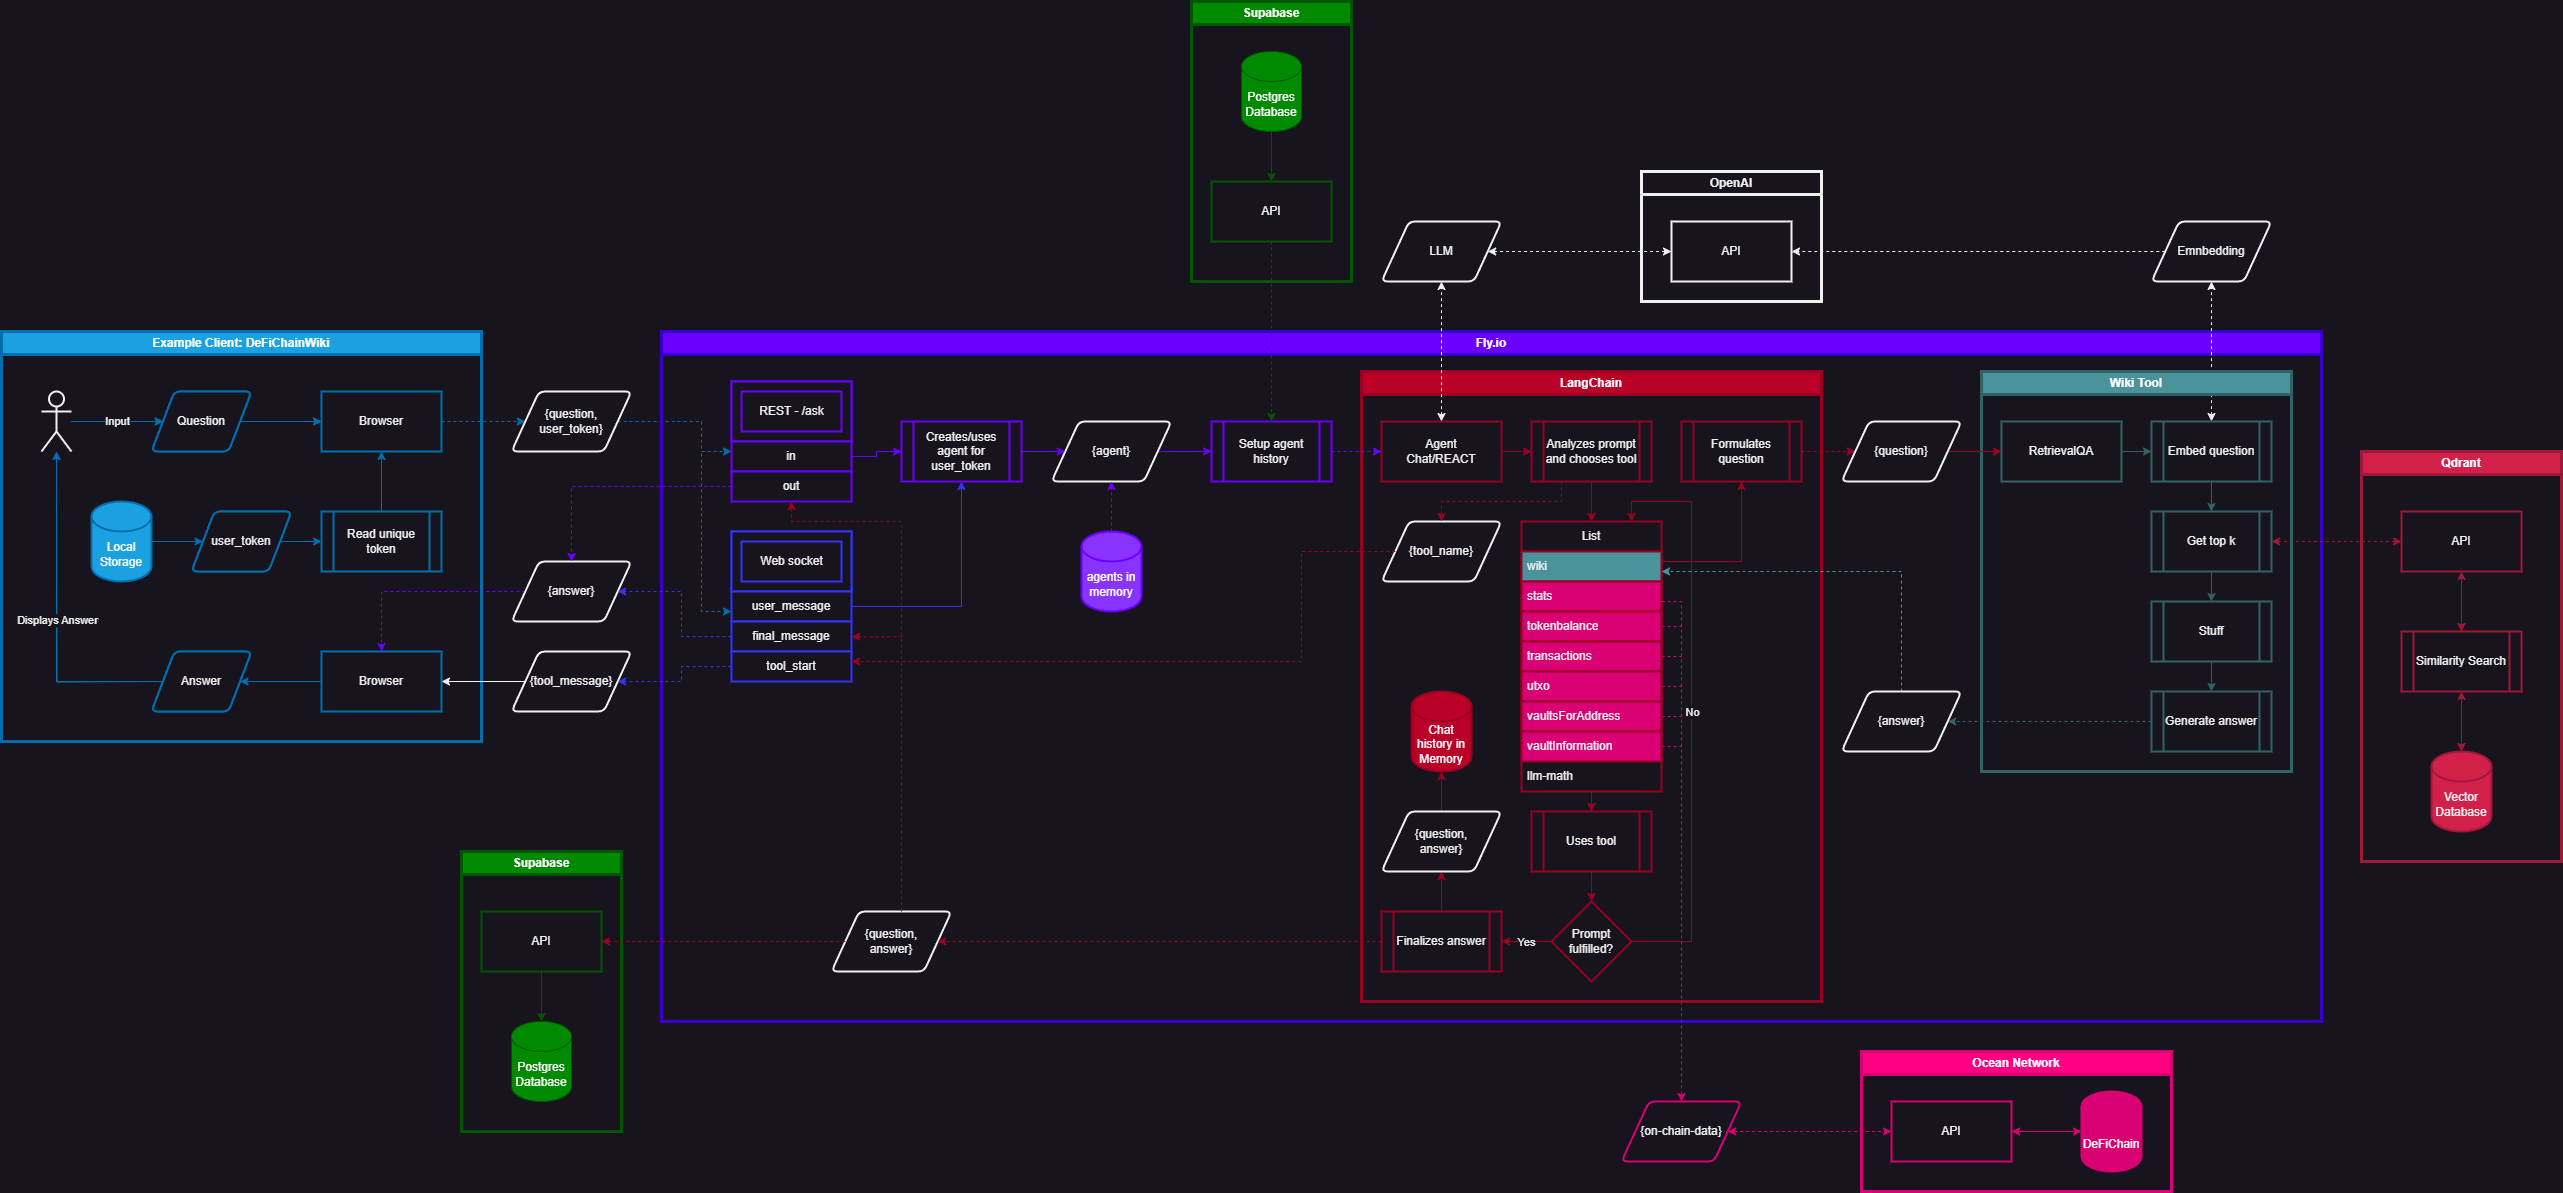
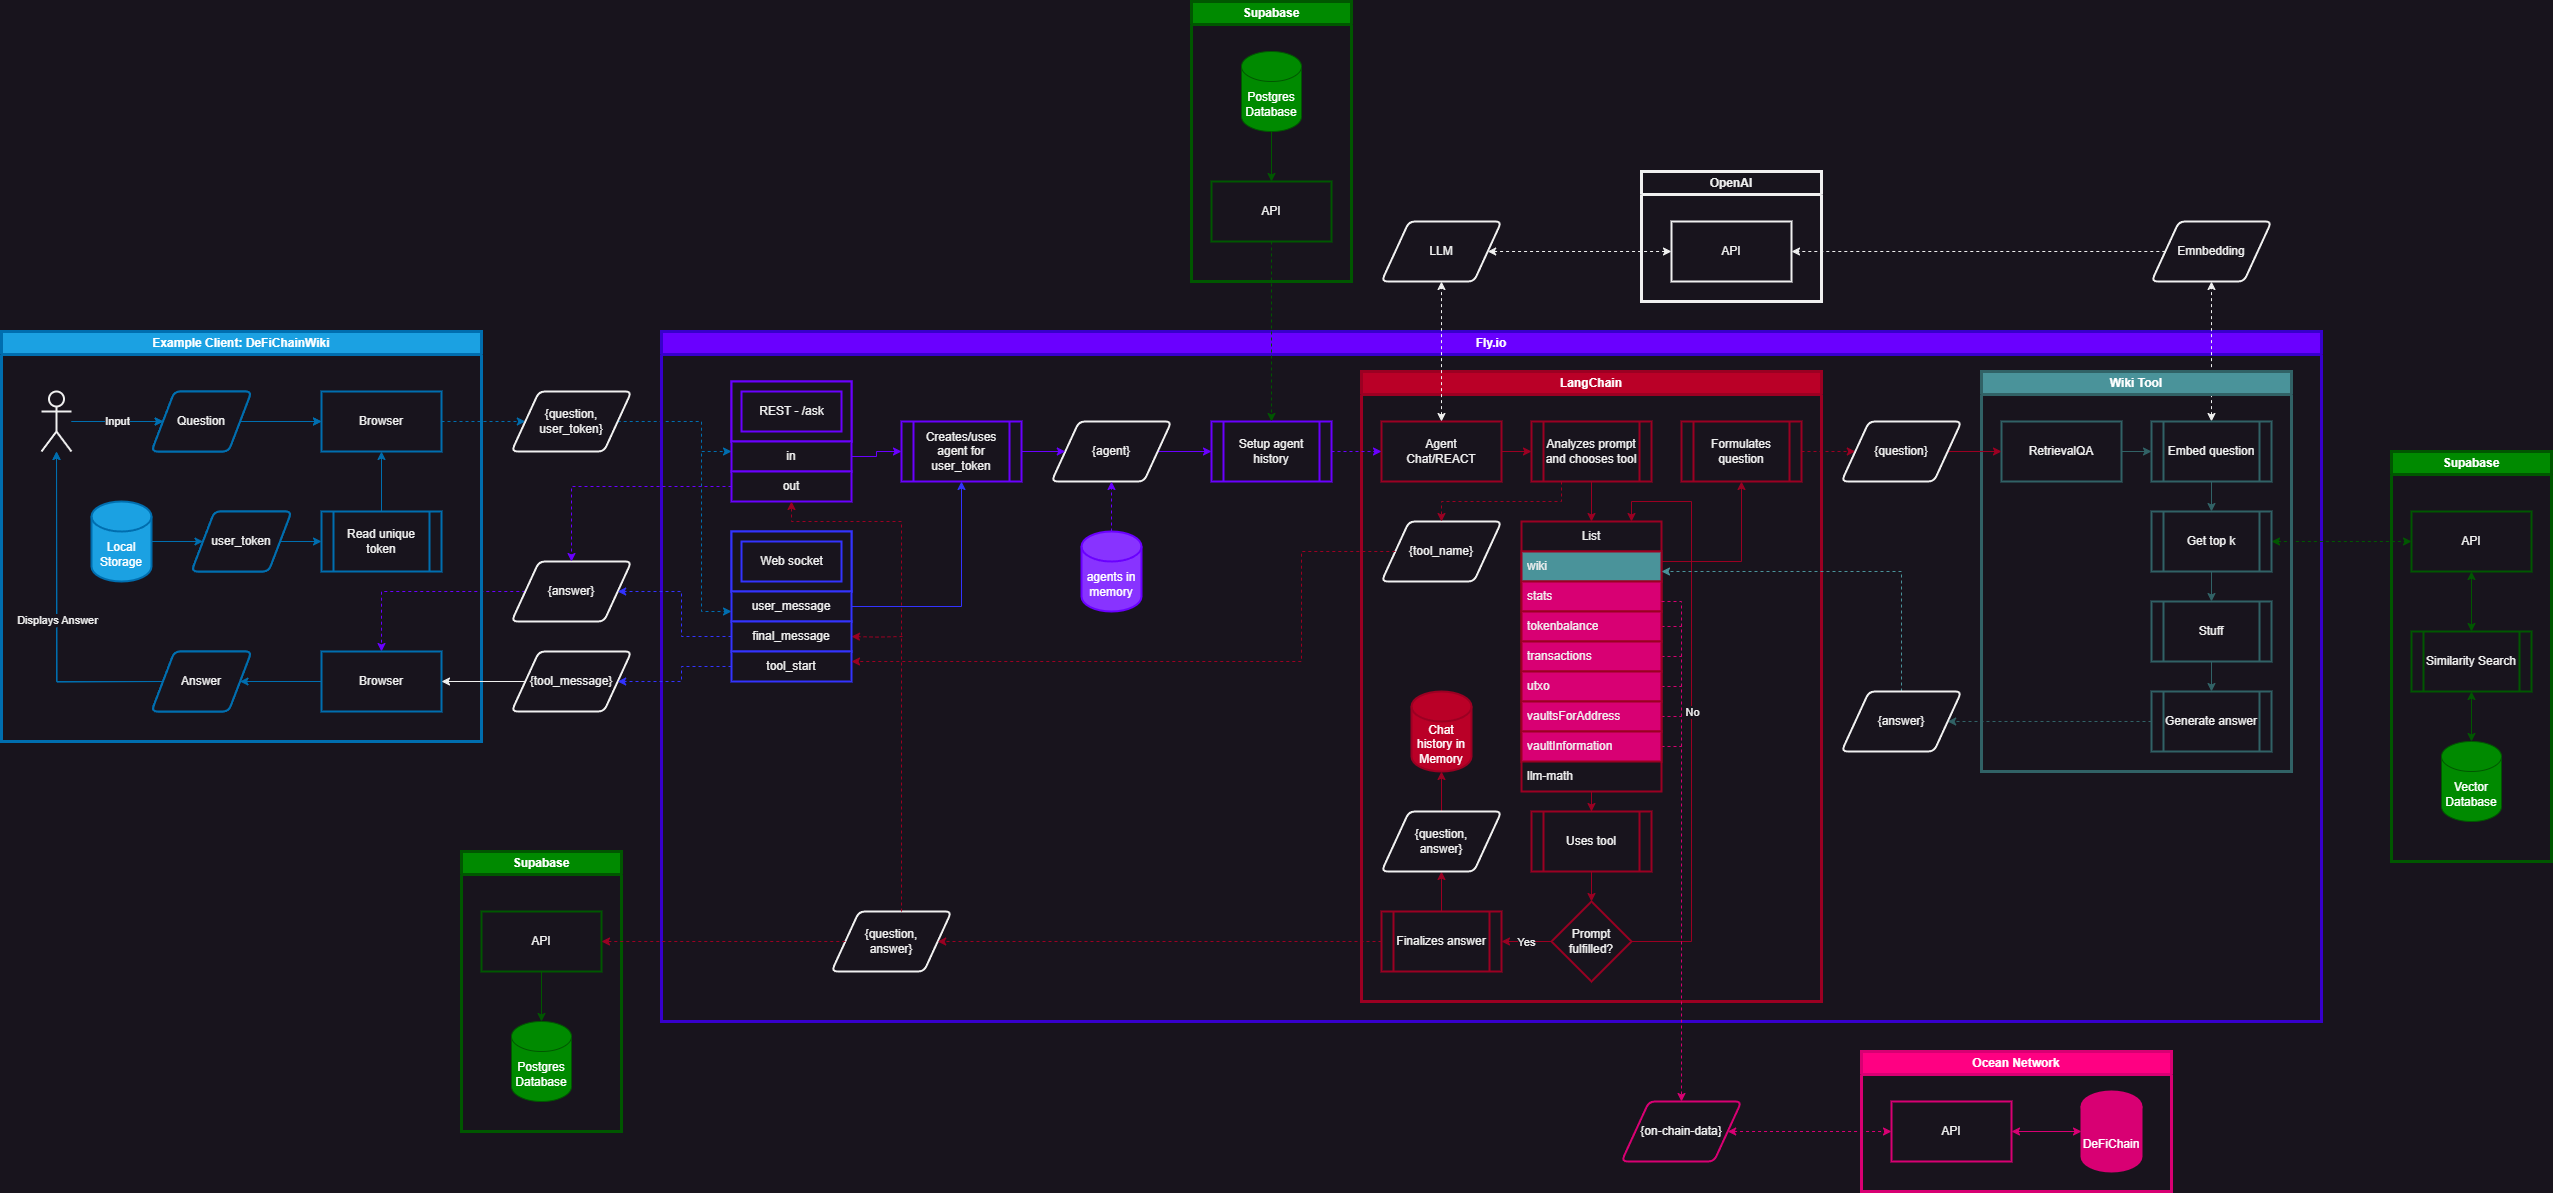
Migrate from Qdrant to Supabase

diff --git a/job/app.py b/job/app.py
@@ -1,7 +1,7 @@
-from langchain.vectorstores import Qdrant
+from langchain.vectorstores import SupabaseVectorStore
 from langchain.embeddings.openai import OpenAIEmbeddings
-from langchain.document_loaders import UnstructuredURLLoader
 from langchain.text_splitter import CharacterTextSplitter
+from supabase.client import Client, create_client
 from dotenv import load_dotenv, get_key
 import re
 
@@ -10,9 +10,14 @@ from sitemap_parser import get_urls
 
 load_dotenv()
 
+vectorTableName = "embeddings"
 scrapeUrls = ["https://www.defichainwiki.com/sitemap.xml"]
 chunk_size = 400
 chunk_overlap = 0
+
+supabase: Client = create_client(
+    get_key(".env", "SUPABASE_URL"), get_key(".env", "SUPABASE_KEY")
+)
 
 urls = []
 
@@ -52,7 +57,7 @@ for url in urls:
 print("✅ Scraped %s pages" % len(docs))
 
 
-print("➖ Remove long strings..")
+print("➖ Remove long strings")
 for document in docs:
     document.page_content = re.sub(
         r"(?<=\S)[^\s]{" + str(chunk_size) + ",}(?=\S)", "", document.page_content
@@ -67,16 +72,16 @@ text_splitter = CharacterTextSplitter(
 docs = text_splitter.split_documents(docs)
 print("✅ Split into %s chunks" % len(docs))
 
+print("➖ Remove all old documents from table")
+supabase.table(vectorTableName).delete().neq("id", -1).execute()
+print("✅ Removed all old documents from table")
 
 print("🔮 Embedding..")
 embeddings = OpenAIEmbeddings()
-
-qdrant = Qdrant.from_documents(
+vector_store = SupabaseVectorStore.from_documents(
     docs,
     embeddings,
-    url=get_key(".env", "QDRANT_HOST"),
-    api_key=get_key(".env", "QDRANT_API_KEY"),
-    prefer_grpc=True,
-    collection_name="DeFiChainWiki",
+    client=supabase,
+    table_name=vectorTableName,
 )
 print("✅ Embedded")

diff --git a/backend/tools/wiki_qa.py b/backend/tools/wiki_qa.py
@@ -1,32 +1,31 @@
-import os
-from dotenv import load_dotenv
-from qdrant_client import QdrantClient
+from dotenv import load_dotenv, get_key
+from supabase.client import Client, create_client
 from langchain.chat_models import ChatOpenAI
-from langchain.vectorstores import Qdrant
+from langchain.vectorstores import SupabaseVectorStore
 from langchain.embeddings.openai import OpenAIEmbeddings
 from langchain.chains import RetrievalQA
 from langchain.agents import Tool
 
 load_dotenv()
 
-# The name of the collection in Qdrant
-collection_name = 'DeFiChainWiki'
+# The name of the table in Supabase, where the vectors are stored
+vectorTableName = "embeddings"
 
+# Create the supabase client
+supabase: Client = create_client(
+    get_key("../.env", "SUPABASE_URL"), get_key("../.env", "SUPABASE_KEY")
+)
 
-# Create a Qdrant client
-client = QdrantClient(url=os.getenv('QDRANT_HOST'),
-                      api_key=os.getenv('QDRANT_API_KEY'),
-                      prefer_grpc=True)
-
-
-# Create a langchain qdrant object
+# Create a vector store
 embeddings = OpenAIEmbeddings()
-qdrant = Qdrant(client=client,
-                collection_name=collection_name,
-                embeddings=embeddings)
+vector_store = SupabaseVectorStore(
+    embedding=embeddings,
+    client=supabase,
+    table_name=vectorTableName,
+)
 
-# Create a qdrant retriever
-retriever = qdrant.as_retriever(search_type="similarity")
+# Create a retriever
+retriever = vector_store.as_retriever(search_type="similarity")
 
 
 # Create retrieval chain

diff --git a/backend/Readme.md b/backend/Readme.md
@@ -15,7 +15,7 @@ The backend is a Flask API that provices both a web socket connection and a REST
     - Calls the Ocean API via DefichainPython
   - Wiki tool
     - Embedds the input
-    - Uses Qdrant to find the best matching document
+    - Uses Supabase (pgvector) to find the best matching document
     - Generates an answer
   - Math tool
 - Comes up with the final answer
@@ -30,7 +30,7 @@ The backend is a Flask API that provices both a web socket connection and a REST
 - Web sockets
 - OpenAI API
 - DefichainPython
-- Qdrant
+- Supabase
 
 ## Deployment
 
@@ -109,18 +109,13 @@ _Response body_
   - Used to embed incoming questions.
   - Used to generate text.
   - Can be obtained here: [platform.openai.com](https://platform.openai.com/)
-- `QDRANT_HOST` - Qdrant host URL of cluster.
-  - Used to find the best matching documents.
-  - Can be obtained here: [cloud.qdrant.io](https://cloud.qdrant.io/)
-  - The URL looks like: https://XXXXXXXX-XXXX-XXXX-XXXX-XXXXXXXXXXXX.eu-central-1-0.aws.cloud.qdrant.io:6333
-- `QDRANT_API_KEY` - Qdrant API key.
-  - Used to find the best matching documents.
-  - Can be obtained here: [cloud.qdrant.io](https://cloud.qdrant./)
 - `SUPABASE_URL` - Supabase API URL.
   - Used to save questions and answers with their rating.
+  - Used to find the best matching documents.
   - Can be obtained here: [app.supabase.io](https://app.supabase.com/)
 - `SUPABASE_KEY` - Supabase anon key.
   - Used to save questions and answers with their rating.
+  - Used to find the best matching documents.
   - Can be obtained here: [app.supabase.io](https://app.supabase.com/)
 
 ## Basic commands

diff --git a/job/Readme.md b/job/Readme.md
@@ -1,32 +1,31 @@
 # JellyChat - Job
 
-Contains scripts that are executed periodically. Currently, it contains a script that scrapes defichainwiki.com and creates embeddings for each document. The embeddings are saved to Qdrant.
+Contains scripts that are executed periodically. Currently, it contains a script that scrapes defichainwiki.com and creates embeddings for each document. The embeddings are saved to Supabase using pgvector.
 
 ## Process
 
 - Scrapes defichainwiki.com
 - Splits the content into documents
 - Creates embeddings for each document
-- Saves embeddings to Qdrant
+- Saves embeddings to Supabase
 
 ## Technologies
 
 - Python
 - LangChain
 - OpenAI API
-- Qdrant
+- Supabase
 
 ## Environment Variables
 
 - `OPENAI_API_KEY` - Your OpenAI API Key.
   - Used to embed documents.
-- `QDRANT_HOST` - Qdrant host URL of cluster.
+- `SUPABASE_URL` - Supabase API URL.
   - Used to store the documents and their embeddings.
-  - Can be obtained here: [cloud.qdrant.io](https://cloud.qdrant.io/)
-  - The URL looks like: https://XXXXXXXX-XXXX-XXXX-XXXX-XXXXXXXXXXXX.eu-central-1-0.aws.cloud.qdrant.io:6333
-- `QDRANT_API_KEY` - Qdrant API Key.
+  - Can be obtained here: [app.supabase.io](https://app.supabase.com/)
+- `SUPABASE_KEY` - Supabase anon key.
   - Used to store the documents and their embeddings.
-  - Can be obtained here: [cloud.qdrant.io](https://cloud.qdrant./)
+  - Can be obtained here: [app.supabase.io](https://app.supabase.com/)
 
 ## Python basic commands
 

diff --git a/README.md b/README.md
@@ -49,12 +49,17 @@ The backend is a Flask API that receives questions and returns answers. It uses 
 
 ### 💽 `/data`
 
-We use Supabase to store all questions and final answers together with their rating.
+We use Supabase to store:
+
+- Users
+- Messages
+- QA data
+- Embeddings
 
 [Details 🔎](./data/Readme.md)
 
 ### ⚡ `/job`
 
-Contains scripts that are executed periodically. Currently, it contains a script that scrapes defichainwiki.com and creates embeddings for each document. The embeddings are saved to Qdrant.
+Contains scripts that are executed periodically. Currently, it contains a script that scrapes defichainwiki.com and creates embeddings for each document. The embeddings are saved to Supabase (pgvector).
 
 [Details 🔎](./job/Readme.md)

diff --git a/data/README.md b/data/README.md
@@ -4,12 +4,26 @@
 
 > https://cofmxsabxteiidryklyg.supabase.co
 
-We use Supabase to store all questions and final answers together with their rating.
+We use Supabase to store:
+
+- Users - `users`
+  - Used to store the user token
+- Messages - `chat_messages`
+  - Content
+  - Type: human/jelly/tool
+- QA data - `qa`
+  - Question
+  - Asnwer
+- Embeddings - `embeddings`
+  - Vector
+  - Content
+  - Metadata
 
 ## Technologies
 
 - Supabase
 - Postgres
+- pgvector
 
 ## Local development
 
